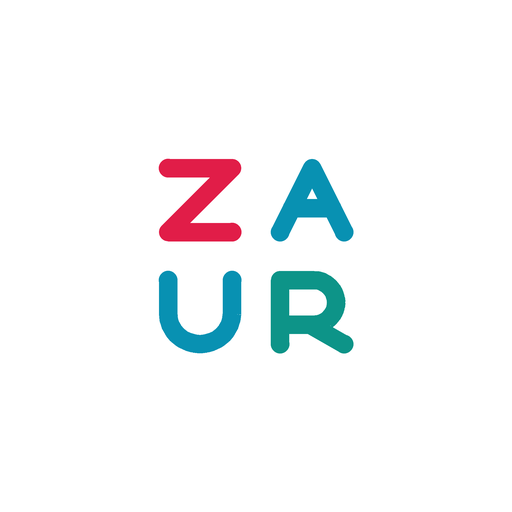
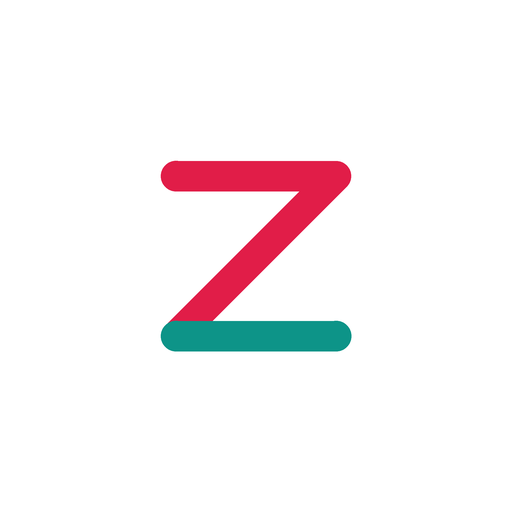
feat(mail2): the Z fold — one ribbon, no wordmark
The ZA/UR tile could never read at 16px: four micro-letterforms in a 16-unit
box rendered as texture, not type. The mark is one continuous ribbon now — two
bars and a 45-degree fold, rose leading into the brand teal, the colour break
sitting exactly on the bottom-left corner. Geometrically exact, stroked at the
1.9 a brand mark needs next to the shell's 1.3 functional glyphs, same round
caps and joins. The cyan drops out of the drawing; the rose and teal tokens
carry it, so dark mode and the token tests are untouched.

**No wordmark.** The "Zaur" text beside the tile spent header width stating
what the tile already says. Every header is the tile, its divider, and the
section's own controls now; the login card keeps its wordmark, so the front
door still spells the name out.

**Parity kept three ways.** The glyph lives in the component, `favicon.svg`
and `generate-icons.py`, so all three moved together and every PNG was
regenerated from the script — favicon, app icons, apple-touch and the badge.
The simpler drawing compresses far better along the way (icon-512 13KB → 5KB).

Verified with svelte-check clean, 87/87 tests, and a seeded smoke session in
a browser: the fold reads instantly in the light and dark mail headers, the
section header, the phone top bar and the drawer header.

Changed region(s): [[0.3125, 0.3125, 0.6875, 0.6875]]

diff --git a/apps/mail2/src/lib/components/mail/ZaurMark.svelte b/apps/mail2/src/lib/components/mail/ZaurMark.svelte
@@ -2,13 +2,13 @@
 	import { page } from '$app/state';
 
 	/**
-	 * The brand mark and the shell's home button, as one lockup: the ZA/UR glyph
-	 * — the same grid, round caps and 1.3 stroke as every other glyph in the
-	 * shell — on a tactile tile the size of the header's buttons, beside the
-	 * wordmark the login card wears. It does something when pressed now, so it
-	 * wears the tactile shadow and the hover/press states the other controls
-	 * wear, and reads as a control rather than a stamp sitting among them.
-	 * Clicking goes home (Mail); on Mail it marks itself the current page.
+	 * The brand mark and the shell's home button: the Z fold — two bars and a
+	 * 45° fold drawn as one continuous ribbon in two identity inks, rose
+	 * leading into the brand teal. Four micro-letters could never read at
+	 * 16px; the fold holds its shape in the header, the favicon and the app
+	 * icon alike. Its stroke is the 1.9 a brand mark needs next to the shell's
+	 * 1.3 functional glyphs, with the same round caps and joins. Clicking goes
+	 * home (Mail); on Mail it marks itself the current page.
 	 *
 	 * The strokes wear fixed identity inks (`--z-mark-*`), deliberately not
 	 * channel hues. The mark never carries a count. Its geometry is mirrored in
@@ -38,20 +38,16 @@
 	aria-current={isHome ? 'page' : undefined}
 	data-sveltekit-preload-data="hover"
 	onclick={() => onNavigate?.()}
-	class="group flex shrink-0 items-center gap-2 rounded-[9px] transition-transform duration-[80ms] select-none active:translate-y-[0.5px] {className}"
+	class="group flex shrink-0 items-center rounded-[9px] transition-transform duration-[80ms] select-none active:translate-y-[0.5px] {className}"
 >
-	<!-- The tile: a tactile button's body, because the mark is a button now. -->
+	<!-- The tile: a tactile button's body, because the mark is a button. -->
 	<span
 		class="flex size-8 shrink-0 items-center justify-center rounded-[8px] border border-[var(--z-line)] bg-[var(--z-surface)] shadow-[var(--z-shadow-tactile)] transition-[background-color,border-color] duration-[120ms] group-hover:border-[var(--z-faint)] group-hover:bg-[var(--z-hover)]"
 		aria-hidden="true"
 	>
-		<svg class="size-4" viewBox="0 0 16 16" fill="none" stroke-width="1.3" stroke-linecap="round" stroke-linejoin="round">
-			<path stroke="var(--z-mark-z)" d="M2.5 2.5H6.5L2.5 6.5H6.5" />
-			<path stroke="var(--z-mark-a)" d="M9.5 6.5L11.5 2.5L13.5 6.5M10.25 5H12.75" />
-			<path stroke="var(--z-mark-a)" d="M2.5 9.5V11.6a2 1.9 0 0 0 4 0V9.5" />
-			<path stroke="var(--z-mark-r)" d="M9.5 13.5V9.5H11.6a1.4 1.4 0 0 1 0 2.8H9.5M11.4 12.3L13.5 13.5" />
+		<svg class="size-4" viewBox="0 0 16 16" fill="none" stroke-width="1.9" stroke-linecap="round" stroke-linejoin="round">
+			<path stroke="var(--z-mark-z)" d="M3 3H13L3 13" />
+			<path stroke="var(--z-mark-r)" d="M3 13H13" />
 		</svg>
 	</span>
-	<!-- The wordmark, as on the login card; a phone header keeps only the tile. -->
-	<span class="text-[14px] leading-none font-bold tracking-[-0.02em] text-[var(--z-ink)] max-md:hidden">Zaur</span>
 </a>

diff --git a/apps/mail2/scripts/generate-icons.py b/apps/mail2/scripts/generate-icons.py
@@ -1,14 +1,14 @@
 #!/usr/bin/env python3
-"""Draw mail2's PNG icons from the ZA/UR mark (ZaurMark.svelte).
+"""Draw mail2's PNG icons from the Z fold (ZaurMark.svelte).
 
-The mark is a 16px icon glyph: four stroked letters on a 16-unit grid, round
-caps and joins, in fixed identity inks. The paths below mirror the component's
-SVG, with its two arcs flattened, so the PNGs are the same drawing — not type.
-`static/favicon.svg` is written by hand from the same paths.
+The mark is a 16px icon glyph: two bars and a 45-degree fold drawn as one
+continuous ribbon on a 16-unit grid, round caps and joins, in fixed identity
+inks. The polylines below mirror the component's SVG, so the PNGs are the
+same drawing — not type. `static/favicon.svg` is written by hand from the
+same paths.
 
     python3 scripts/generate-icons.py      # writes into static/ (needs Pillow)
 """
-import math
 from pathlib import Path
 
 from PIL import Image, ImageDraw
@@ -18,21 +18,13 @@ STATIC = ROOT / "static"
 SUPERSAMPLE = 4
 
 SURFACE = (255, 255, 255, 255)  # --z-surface
-Z, A, R = (225, 29, 72, 255), (8, 145, 178, 255), (13, 148, 136, 255)  # --z-mark-*
-
-
-def arc(cx: float, cy: float, rx: float, ry: float, start: float, end: float, steps: int = 16) -> list[tuple[float, float]]:
-    return [(cx + rx * math.cos(a), cy + ry * math.sin(a)) for a in (start + (end - start) * i / steps for i in range(steps + 1))]
+Z, R = (225, 29, 72, 255), (13, 148, 136, 255)  # --z-mark-z, --z-mark-r
 
 
 # (ink, polyline) — ZaurMark.svelte's paths on the 16-unit grid.
 GLYPH = [
-    (Z, [(2.5, 2.5), (6.5, 2.5), (2.5, 6.5), (6.5, 6.5)]),
-    (A, [(9.5, 6.5), (11.5, 2.5), (13.5, 6.5)]),
-    (A, [(10.25, 5), (12.75, 5)]),
-    (A, [(2.5, 9.5), (2.5, 11.6), *arc(4.5, 11.6, 2, 1.9, math.pi, 0), (6.5, 9.5)]),
-    (R, [(9.5, 13.5), (9.5, 9.5), (11.6, 9.5), *arc(11.6, 10.9, 1.4, 1.4, -math.pi / 2, math.pi / 2), (9.5, 12.3)]),
-    (R, [(11.4, 12.3), (13.5, 13.5)]),
+    (Z, [(3, 3), (13, 3), (3, 13)]),
+    (R, [(3, 13), (13, 13)]),
 ]
 
 
@@ -63,14 +55,14 @@ def tile(size: int, glyph_share: float, stroke: float, radius: float, ink=None, 
 def main() -> None:
     # App icons: full-bleed paper (the platform masks the corners), glyph inside the safe zone.
     for size, name in ((192, "icon-192.png"), (512, "icon-512.png"), (180, "apple-touch-icon.png")):
-        icon = tile(size, 0.5, 1.15, 0)
+        icon = tile(size, 0.5, 1.9, 0)
         (icon.convert("RGB") if name.startswith("apple") else icon).save(STATIC / name, optimize=True)
     # Favicon PNG fallback: favicon.svg's drawing — 85% glyph, heavier stroke.
-    favicon = tile(48, 0.85, 1.5, 3.5 / 16)
+    favicon = tile(48, 0.85, 2.5, 3.5 / 16)
     favicon.save(STATIC / "favicon.png", optimize=True)
     favicon.save(STATIC / "favicon.ico", sizes=[(16, 16), (32, 32), (48, 48)])
     # Android draws the status-bar badge from alpha alone.
-    tile(96, 0.85, 1.5, 0, ink=(255, 255, 255, 255), background=None).save(STATIC / "badge.png", optimize=True)
+    tile(96, 0.85, 2.5, 0, ink=(255, 255, 255, 255), background=None).save(STATIC / "badge.png", optimize=True)
     print("wrote", ", ".join(sorted(p.name for p in STATIC.iterdir() if p.is_file())))
 
 
